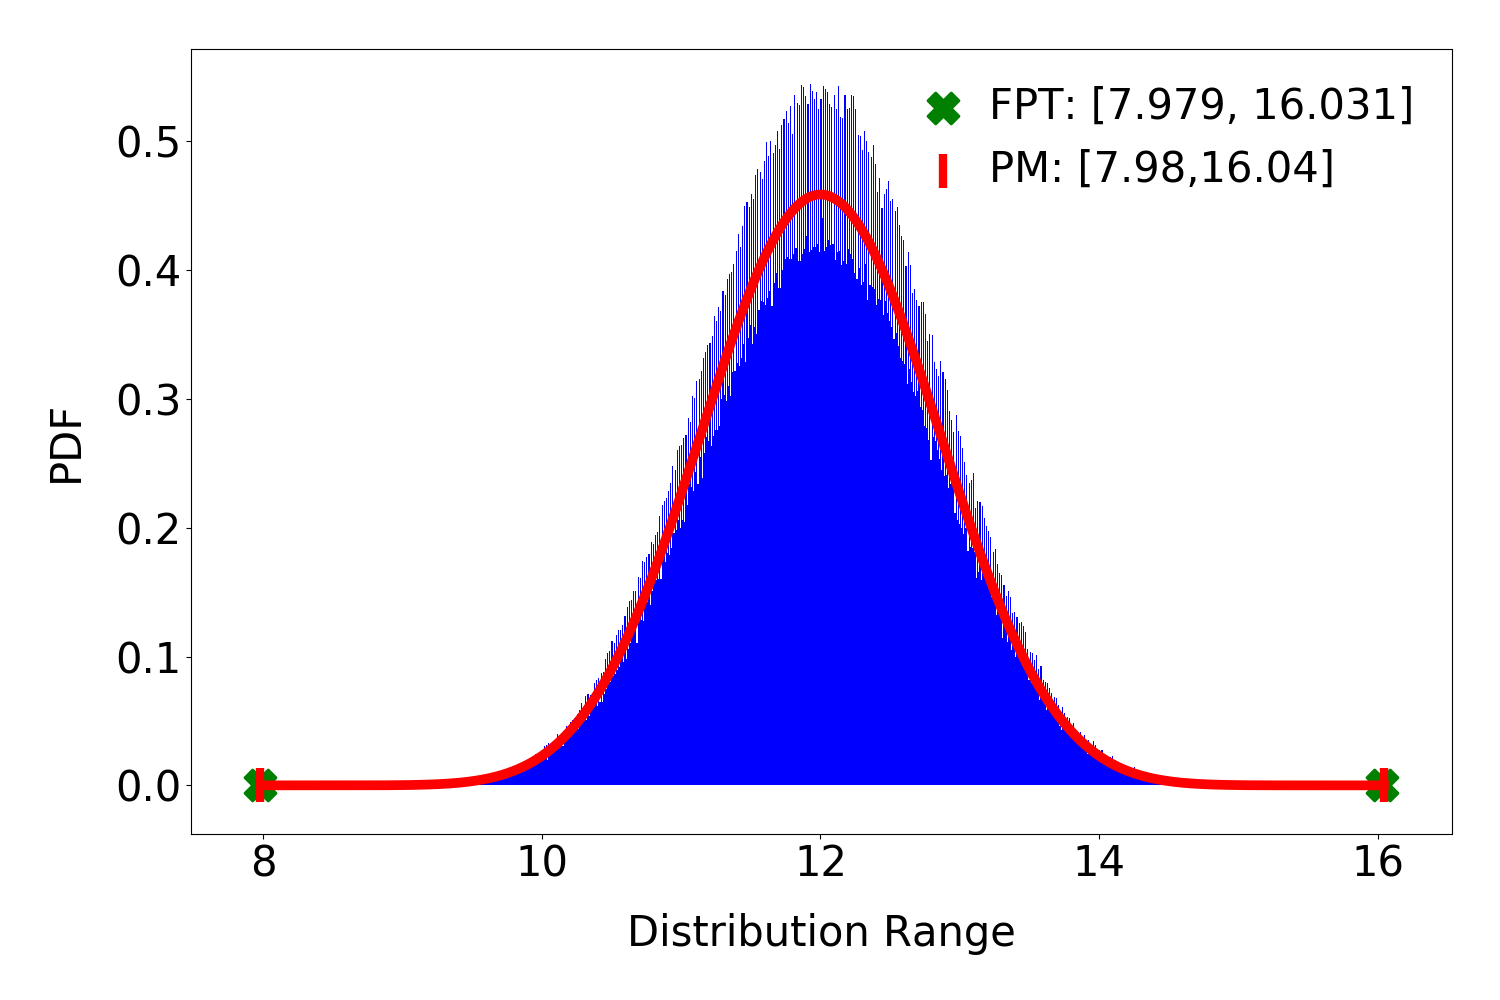
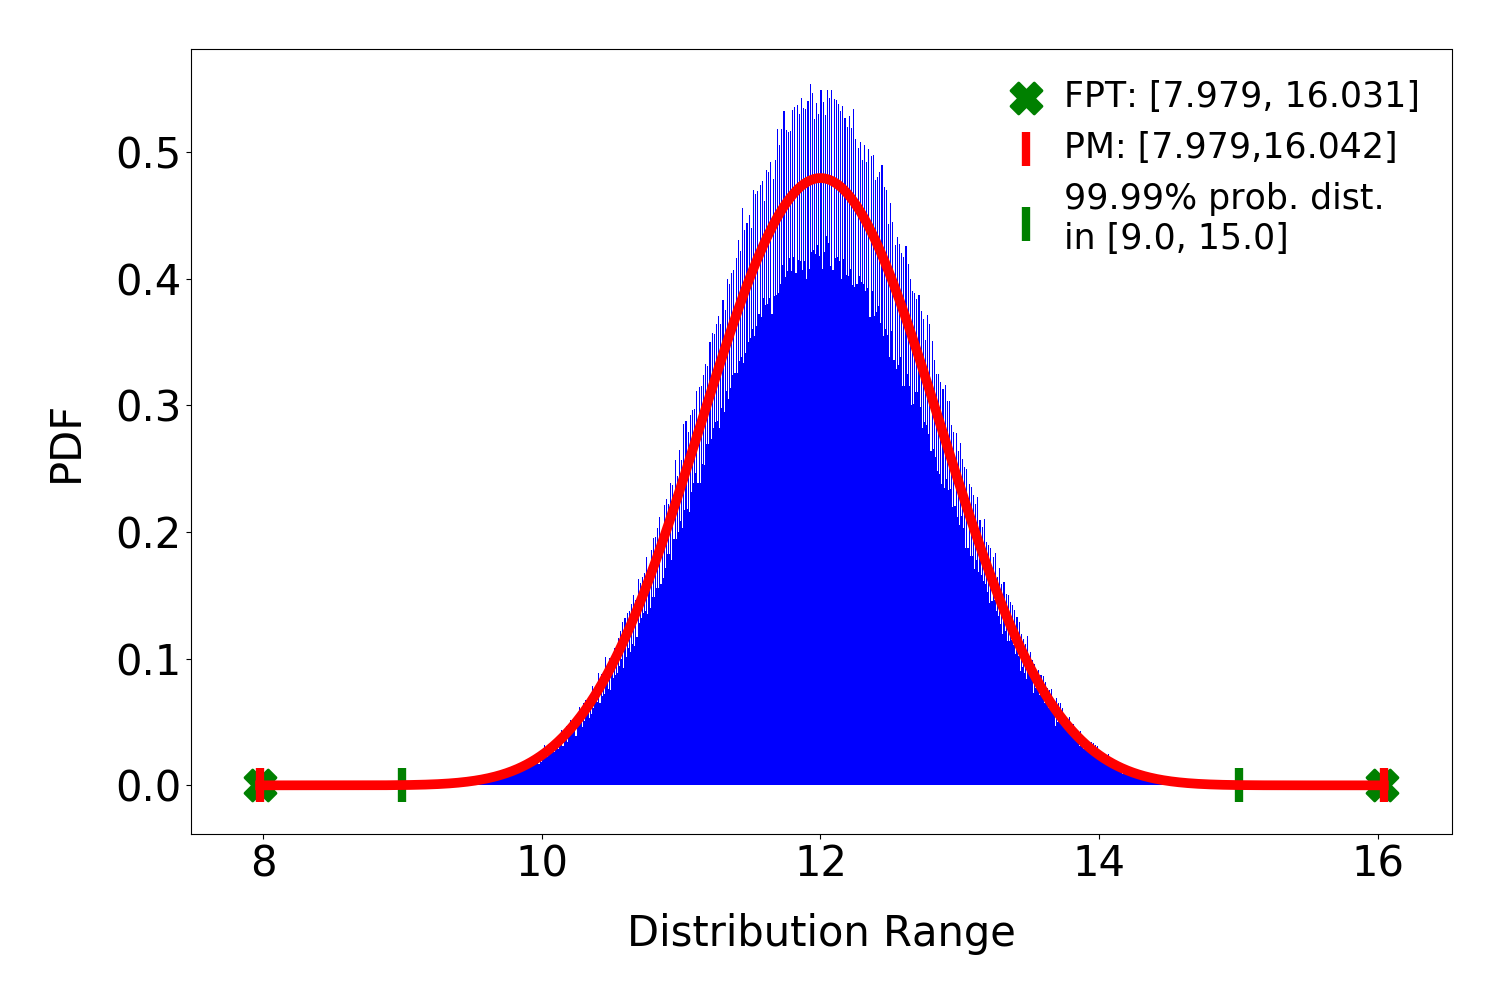
rocco experiments destails

diff --git a/Asilomar_paper/constantinides-dahlqvist.tex b/Asilomar_paper/constantinides-dahlqvist.tex
@@ -174,15 +174,13 @@ where $\one_{A}(x)$ is the usual indicator function which returns 1 if $x\in A$ 
 
 \subsection{The typical rounding error distribution}
 Interestingly, when computing the error density \cref{eq:errorDensity} for a wide variety of well-known input distribution, one very often obtains more or less the same curve. This phenomenon is illustrated in \cref{fig:errdist} where the half-precision error density computed via \cref{eq:errorDensity} is displayed for uniform distributions over $\left[-10,10\right]$ and $\left[0,1\right]$ and for normal distributions with parameters $\mu=0,\sigma=2$ and $\mu=2,\sigma=10$ respectively. The reader will notice immediately that all the curves are nearly identical.
-
 \vspace{-1em}
 \begin{figure}[h!]
 \hspace{-3em}
 \includegraphics[scale=0.65]{pics/several_examples}
 \caption{Half-precision relative error distribution for four typical input distributions}
 \label{fig:errdist}
-\end{figure}
-
+\end{figure}\\\\
 In this section we will sketch how, under some regularity assumptions about the input distribution, the error density of \cref{eq:errorDensity} can be approximated by a simple, piecewise polynomial curve which we shall call the \emph{typical error distribution}. The precise mathematical derivation of this curve being relatively long, we refer the reader to XXX for the full details. Here we will simply specify conditions under which the error distribution given by \cref{eq:errorDensity} is close to the typical distribution. The key observations which we shall make are that (a) the quality of the approximation increases with the working precision (henceforth $p$), and (b) the likelihood of the assumptions being satisfied also increases with $p$.
 
 Let $z(e,s,k)$ denote the floating-point representable real with exponent $e$, sign $(-1)^s$ and mantissa $k$, and let $e_{min}$ and $e_{max}$ denote the smallest and largest exponents respectively. Given a $t\in \left[-1,1\right]$, one can show that the mantissas such that
@@ -363,9 +361,6 @@ We have implemented the probabilistic interpretation of the class of terms defin
 As shown in \cref{subsec:sem}, the interpretation of terms is computed by performing arithmetic operations on random variables. For random variables whose probability distribution is representable by density functions, \cref{subsec:rvarithmetic} shows how these arithmetic operations can be implemented in practice. A sophisticated version of \cref{eq:pdfplus}-\cref{eq:pdfdiv} is implemented in the Python library PaCAL
 \cite{jaroszewicz2012arithmetic}\cite{korzen2014pacal} on which we have based the evaluation of the probabilistic interpretation of terms.
 
-\subsection{Setup}
-We evaluated our methodology on  
-
 \subsection{Rounding error distribution}
 Our implementation focuses on computations performed in low precision, that is to say half-precision or lower. We therefore compute the distribution of relative errors using the exact analytic formula \cref{eq:errorDensity}.
 
@@ -382,7 +377,7 @@ Figure \ref{fig:impl:errdist} shows a plot of the half-precision error distribut
 \subsection{Range analysis}
 With a concrete representation of the error distribution associated with an input distribution we can recursively evaluate the probabilistic interpretation of terms following \eqref{eq:termsem}. This computes the final output distribution (including probabilistic rounding errors) of a term, given input distributions for each of its variable. A simple application of this output distribution is \emph{range analysis}. 
 
-We first consider a simple application of range analysis, namely the detection of overflows. To illustrate our probabilistic approach consider two variables $\tt x0, x1$ with $\tt x0$ distributed uniformly on $\left[10, 15.5\right]$ and $\tt x1$ distributed uniformly on $\left[0.97,2\right]$. Suppose that the working precision is 3 bits for the exponent and 3 bits for the mantissa and that we are interested in the term $\tt x0/x1$. In infinite precision $15.5/0.97 < 16$, the largest representable number at the given precision level, and there is no overflow. In reduced precision however overflow can occur. In this case, an analyser like FPTaylor will correctly detect the overflow and return an infinite range, but will not be able to quantify the \emph{likelihood of overflow}. \cref{fig:impl:div} shows the output distribution of the term $\tt x0/x1$ (red line), the support of the output distribution (`PM' in the legend), the output range of FPTaylor (`FPT' in the legend), and a histogram of the computation $\tt x0/x1$ performed on one million samples in reduced precision. Analytically, the probability of overflow is xxx\%, and empirically xxx\% of the samples overflow.
+We first consider a simple application of range analysis, namely the detection of overflows. To illustrate our probabilistic approach consider two variables $\tt x0, x1$ with $\tt x0$ distributed uniformly on $\left[10, 15.5\right]$ and $\tt x1$ distributed uniformly on $\left[0.97,2\right]$. Suppose that the working precision is 3 bits for the exponent and 3 bits for the mantissa and that we are interested in the term $\tt x0/x1$. In infinite precision $15.5/0.97 < 16$, the largest representable number at the given precision level, and there is no overflow. In reduced precision however overflow can occur. In this case, an analyser like FPTaylor will correctly detect the overflow and return an infinite range, but will not be able to quantify the \emph{likelihood of overflow}. \cref{fig:impl:div} shows the output distribution of the term $\tt x0/x1$ (red line), the support of the output distribution (`PM' in the legend), the output range of FPTaylor (`FPT' in the legend), and a histogram of the computation $\tt x0/x1$ performed on one million samples in reduced precision. Analytically, the probability of overflow is 0.0775\%, and empirically 0.0642\% of the samples overflow.
 
 \begin{figure}[h!]
 \includegraphics[scale=0.22]{pics/range_dist_div}
@@ -394,7 +389,7 @@ Next, we consider two benchmarks from FPBench~\cite{fpbench} which our current s
 \[
 \tt{((((((x0 + x1) + x2) + x3) + x4) + x5) + x6) + x7}
 \]
-with each $\tt xi$ assumed to be uniformly distributed on the interval $\left[1,2\right]$. The result of the range analysis are shown in \cref{fig:impl:benchmark}. The support of the output distribution provides marginally worse error bounds than FPTaylor and is in good agreement with one million Monte-Carlo simulations. However, we can probabilistically tighten these bound: at 99.99\% confidence we can say that the output range lies in the interval $\left [xxx,xxx\right]$.
+with each $\tt xi$ assumed to be uniformly distributed on the interval $\left[1,2\right]$. The result of the range analysis are shown in \cref{fig:impl:benchmark}. The support of the output distribution provides marginally worse error bounds than FPTaylor and is in good agreement with one million Monte-Carlo simulations. However, we can probabilistically tighten these bound: at 99.99\% confidence we can say that the output range lies in the interval $\left [9.0,15.0\right]$.
 
 \begin{figure}[h!]
 	\includegraphics[scale=0.22]{pics/range_dist}
